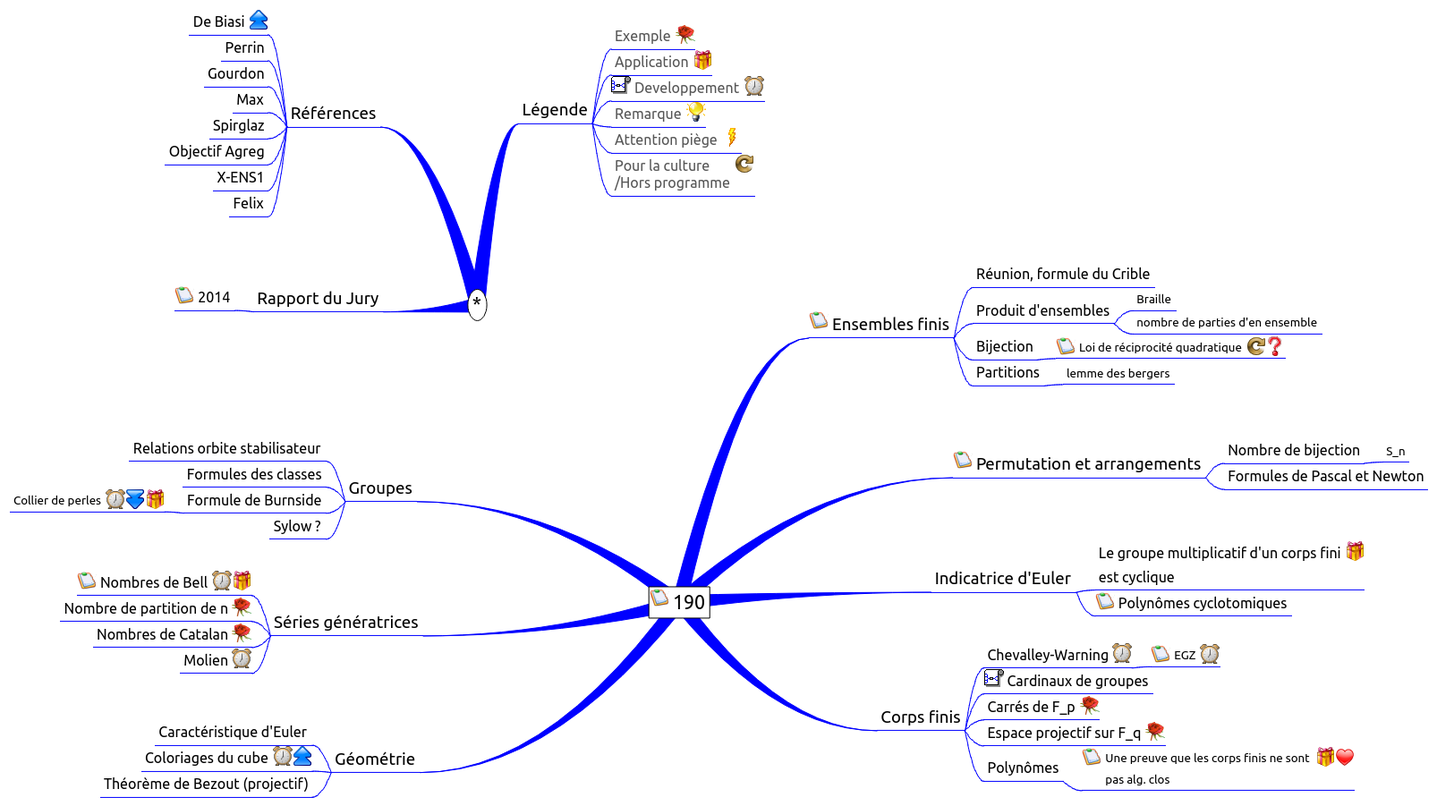
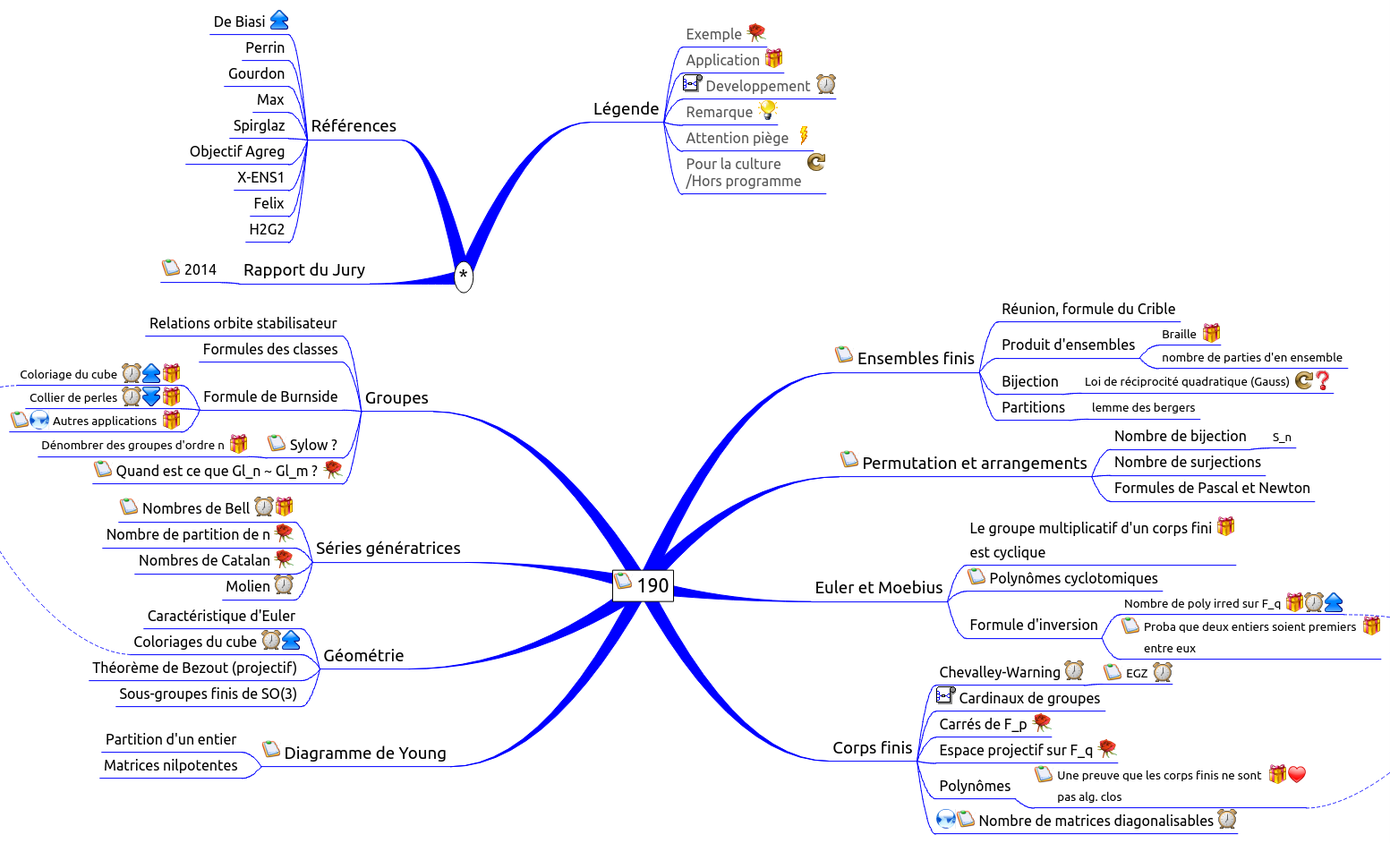
Mise à jour 190

diff --git a/Agreg/190/index.html b/Agreg/190/index.html
@@ -18,15 +18,23 @@ Contents:
 </div><div class="vym-toc-branch-2"><a href="#mc:0,bo:0,bo:0"> 1.1.  Caractéristique d'Euler</a></br>
 </div><div class="vym-toc-branch-2"><a href="#mc:0,bo:0,bo:1"> 1.2.  Coloriages du cube</a></br>
 </div><div class="vym-toc-branch-2"><a href="#mc:0,bo:0,bo:2"> 1.3.  Théorème de Bezout (projectif)</a></br>
-</div><div class="vym-toc-branch-1"><a href="#mc:0,bo:1"> 2.  Indicatrice d'Euler</a></br>
+</div><div class="vym-toc-branch-2"><a href="#mc:0,bo:0,bo:3"> 1.4.  Sous-groupes finis de SO(3)</a></br>
+</div><div class="vym-toc-branch-1"><a href="#mc:0,bo:1"> 2.  Euler et Moebius</a></br>
 </div><div class="vym-toc-branch-2"><a href="#mc:0,bo:1,bo:0"> 2.1.  Le groupe multiplicatif d'un corps fini est cyclique</a></br>
 </div><div class="vym-toc-branch-2"><a href="#mc:0,bo:1,bo:1"> 2.2.  Polynômes cyclotomiques</a></br>
+</div><div class="vym-toc-branch-2"><a href="#mc:0,bo:1,bo:2"> 2.3.  Formule d'inversion</a></br>
+</div><div class="vym-toc-branch-3"><a href="#mc:0,bo:1,bo:2,bo:0"> 2.3.1.  Nombre de poly irred sur F_q</a></br>
+</div><div class="vym-toc-branch-3"><a href="#mc:0,bo:1,bo:2,bo:1"> 2.3.2.  Proba que deux entiers soient premiers entre eux</a></br>
 </div><div class="vym-toc-branch-1"><a href="#mc:0,bo:2"> 3.  Groupes</a></br>
 </div><div class="vym-toc-branch-2"><a href="#mc:0,bo:2,bo:0"> 3.1.  Relations orbite stabilisateur</a></br>
 </div><div class="vym-toc-branch-2"><a href="#mc:0,bo:2,bo:1"> 3.2.  Formules des classes</a></br>
 </div><div class="vym-toc-branch-2"><a href="#mc:0,bo:2,bo:2"> 3.3.  Formule de Burnside</a></br>
-</div><div class="vym-toc-branch-3"><a href="#mc:0,bo:2,bo:2,bo:0"> 3.3.1.  Collier de perles</a></br>
+</div><div class="vym-toc-branch-3"><a href="#mc:0,bo:2,bo:2,bo:0"> 3.3.1.  Coloriage du cube</a></br>
+</div><div class="vym-toc-branch-3"><a href="#mc:0,bo:2,bo:2,bo:1"> 3.3.2.  Collier de perles</a></br>
+</div><div class="vym-toc-branch-3"><a href="#mc:0,bo:2,bo:2,bo:2"> 3.3.3.  Autres applications</a></br>
 </div><div class="vym-toc-branch-2"><a href="#mc:0,bo:2,bo:3"> 3.4.  Sylow ?</a></br>
+</div><div class="vym-toc-branch-3"><a href="#mc:0,bo:2,bo:3,bo:0"> 3.4.1.  Dénombrer des groupes d'ordre n</a></br>
+</div><div class="vym-toc-branch-2"><a href="#mc:0,bo:2,bo:4"> 3.5.  Quand est ce que Gl_n ~ Gl_m ?</a></br>
 </div><div class="vym-toc-branch-1"><a href="#mc:0,bo:3"> 4.  Corps finis</a></br>
 </div><div class="vym-toc-branch-2"><a href="#mc:0,bo:3,bo:0"> 4.1.  Chevalley-Warning</a></br>
 </div><div class="vym-toc-branch-3"><a href="#mc:0,bo:3,bo:0,bo:0"> 4.1.1.  EGZ</a></br>
@@ -35,13 +43,14 @@ Contents:
 </div><div class="vym-toc-branch-2"><a href="#mc:0,bo:3,bo:3"> 4.4.  Espace projectif sur F_q</a></br>
 </div><div class="vym-toc-branch-2"><a href="#mc:0,bo:3,bo:4"> 4.5.  Polynômes</a></br>
 </div><div class="vym-toc-branch-3"><a href="#mc:0,bo:3,bo:4,bo:0"> 4.5.1.  Une preuve que les corps finis ne sont pas alg. clos</a></br>
+</div><div class="vym-toc-branch-2"><a href="#mc:0,bo:3,bo:5"> 4.6.  Nombre de matrices diagonalisables</a></br>
 </div><div class="vym-toc-branch-1"><a href="#mc:0,bo:4"> 5.  Ensembles finis</a></br>
 </div><div class="vym-toc-branch-2"><a href="#mc:0,bo:4,bo:0"> 5.1.  Réunion, formule du Crible</a></br>
 </div><div class="vym-toc-branch-2"><a href="#mc:0,bo:4,bo:1"> 5.2.  Produit d'ensembles</a></br>
 </div><div class="vym-toc-branch-3"><a href="#mc:0,bo:4,bo:1,bo:0"> 5.2.1.  Braille</a></br>
 </div><div class="vym-toc-branch-3"><a href="#mc:0,bo:4,bo:1,bo:1"> 5.2.2.  nombre de parties d'en ensemble</a></br>
 </div><div class="vym-toc-branch-2"><a href="#mc:0,bo:4,bo:2"> 5.3.  Bijection</a></br>
-</div><div class="vym-toc-branch-3"><a href="#mc:0,bo:4,bo:2,bo:0"> 5.3.1.  Loi de réciprocité quadratique</a></br>
+</div><div class="vym-toc-branch-3"><a href="#mc:0,bo:4,bo:2,bo:0"> 5.3.1.  Loi de réciprocité quadratique (Gauss)</a></br>
 </div><div class="vym-toc-branch-2"><a href="#mc:0,bo:4,bo:3"> 5.4.  Partitions</a></br>
 </div><div class="vym-toc-branch-3"><a href="#mc:0,bo:4,bo:3,bo:0"> 5.4.1.  lemme des bergers</a></br>
 </div><div class="vym-toc-branch-1"><a href="#mc:0,bo:5"> 6.  Séries génératrices</a></br>
@@ -52,7 +61,11 @@ Contents:
 </div><div class="vym-toc-branch-1"><a href="#mc:0,bo:6"> 7.  Permutation et arrangements</a></br>
 </div><div class="vym-toc-branch-2"><a href="#mc:0,bo:6,bo:0"> 7.1.  Nombre de bijection</a></br>
 </div><div class="vym-toc-branch-3"><a href="#mc:0,bo:6,bo:0,bo:0"> 7.1.1.  S_n</a></br>
-</div><div class="vym-toc-branch-2"><a href="#mc:0,bo:6,bo:1"> 7.2.  Formules de Pascal et Newton</a></br>
+</div><div class="vym-toc-branch-2"><a href="#mc:0,bo:6,bo:1"> 7.2.  Nombre de surjections</a></br>
+</div><div class="vym-toc-branch-2"><a href="#mc:0,bo:6,bo:2"> 7.3.  Formules de Pascal et Newton</a></br>
+</div><div class="vym-toc-branch-1"><a href="#mc:0,bo:7"> 8.  Diagramme de Young</a></br>
+</div><div class="vym-toc-branch-2"><a href="#mc:0,bo:7,bo:0"> 8.1.  Partition d'un entier</a></br>
+</div><div class="vym-toc-branch-2"><a href="#mc:0,bo:7,bo:1"> 8.2.  Matrices nilpotentes</a></br>
 </div><div class="vym-toc-branch-0"><a href="#mc:1">  *</a></br>
 </div><div class="vym-toc-branch-1"><a href="#mc:1,bo:0"> 1.  Légende</a></br>
 </div><div class="vym-toc-branch-2"><a href="#mc:1,bo:0,bo:0"> 1.1.  Exemple</a></br>
@@ -71,6 +84,7 @@ Contents:
 </div><div class="vym-toc-branch-2"><a href="#mc:1,bo:1,bo:5"> 2.6.  Objectif Agreg</a></br>
 </div><div class="vym-toc-branch-2"><a href="#mc:1,bo:1,bo:6"> 2.7.  X-ENS1</a></br>
 </div><div class="vym-toc-branch-2"><a href="#mc:1,bo:1,bo:7"> 2.8.  Felix</a></br>
+</div><div class="vym-toc-branch-2"><a href="#mc:1,bo:1,bo:8"> 2.9.  H2G2</a></br>
 </div><div class="vym-toc-branch-1"><a href="#mc:1,bo:2"> 3.  Rapport du Jury</a></br>
 </div><div class="vym-toc-branch-2"><a href="#mc:1,bo:2,bo:0"> 3.1.  2014</a></br>
 </div></td></tr>
@@ -89,8 +103,9 @@ Méthodes combinatoires, problèmes de dénombrement.
       <li><span class='vym-branch-2' style='color:#000000' id='mc:0,bo:0,bo:0'>Caractéristique d'Euler</span>  </li>
       <li><span class='vym-branch-2' style='color:#000000' id='mc:0,bo:0,bo:1'>Coloriages du cube<img src="flags/flag-clock.png"><img src="flags/flag-2arrow-up.png"></span>  </li>
       <li><span class='vym-branch-2' style='color:#000000' id='mc:0,bo:0,bo:2'>Théorème de Bezout (projectif)</span>  </li>
+      <li><span class='vym-branch-2' style='color:#000000' id='mc:0,bo:0,bo:3'>Sous-groupes finis de SO(3)</span>  </li>
     </ul>
-  <h2><span class='vym-branch-1' style='color:#000000' id='mc:0,bo:1'>Indicatrice d'Euler</span></h2>
+  <h2><span class='vym-branch-1' style='color:#000000' id='mc:0,bo:1'>Euler et Moebius</span></h2>
     <ul class="vym-list-ul-2">
       <li><span class='vym-branch-2' style='color:#000000' id='mc:0,bo:1,bo:0'>Le groupe multiplicatif d'un corps fini est cyclique<img src="flags/flag-present.png"></span>  </li>
       <li><span class='vym-branch-2' style='color:#000000' id='mc:0,bo:1,bo:1'>Polynômes cyclotomiques</span>
@@ -99,6 +114,16 @@ Méthodes combinatoires, problèmes de dénombrement.
 Perrin<br/>OA<br/>
 </td></tr></table>
   </li>
+      <li><span class='vym-branch-2' style='color:#000000' id='mc:0,bo:1,bo:2'>Formule d'inversion</span>
+      <ul class="vym-list-ul-3">
+        <li><span class='vym-branch-3' style='color:#000000' id='mc:0,bo:1,bo:2,bo:0'>Nombre de poly irred sur F_q<img src="flags/flag-present.png"><img src="flags/flag-clock.png"><img src="flags/flag-2arrow-up.png"></span>  </li>
+        <li><span class='vym-branch-3' style='color:#000000' id='mc:0,bo:1,bo:2,bo:1'>Proba que deux entiers soient premiers entre eux<img src="flags/flag-present.png"></span>
+<table class="vym-note"><tr><td class="vym-note-flag">
+<td>
+[X-ENS1] 4.33 p.156<br/>
+</td></tr></table>
+  </li>
+      </ul>  </li>
     </ul>
   <h2><span class='vym-branch-1' style='color:#000000' id='mc:0,bo:2'>Groupes</span></h2>
     <ul class="vym-list-ul-2">
@@ -106,9 +131,30 @@ Perrin<br/>OA<br/>
       <li><span class='vym-branch-2' style='color:#000000' id='mc:0,bo:2,bo:1'>Formules des classes</span>  </li>
       <li><span class='vym-branch-2' style='color:#000000' id='mc:0,bo:2,bo:2'>Formule de Burnside</span>
       <ul class="vym-list-ul-3">
-        <li><span class='vym-branch-3' style='color:#000000' id='mc:0,bo:2,bo:2,bo:0'>Collier de perles<img src="flags/flag-clock.png"><img src="flags/flag-2arrow-down.png"><img src="flags/flag-present.png"></span>  </li>
+        <li><span class='vym-branch-3' style='color:#000000' id='mc:0,bo:2,bo:2,bo:0'>Coloriage du cube<img src="flags/flag-clock.png"><img src="flags/flag-2arrow-up.png"><img src="flags/flag-present.png"></span>  </li>
+        <li><span class='vym-branch-3' style='color:#000000' id='mc:0,bo:2,bo:2,bo:1'>Collier de perles<img src="flags/flag-clock.png"><img src="flags/flag-2arrow-down.png"><img src="flags/flag-present.png"></span>  </li>
+        <li><span class='vym-branch-3' style='color:#000000' id='mc:0,bo:2,bo:2,bo:2'><a href="http://agreg-maths.univ-rennes1.fr/documentation/docs/denompoly.pdf"><img src="flags/flag-url-16x16.png">Autres applications<img src="flags/flag-present.png"></a></span>
+<table class="vym-note"><tr><td class="vym-note-flag">
+<td>
+Cf texte de Michel Coste<br/><br/>http://agreg-maths.univ-rennes1.fr/documentation/docs/denompoly.pdf
+</td></tr></table>
+  </li>
       </ul>  </li>
-      <li><span class='vym-branch-2' style='color:#000000' id='mc:0,bo:2,bo:3'>Sylow ?</span>  </li>
+      <li><span class='vym-branch-2' style='color:#000000' id='mc:0,bo:2,bo:3'>Sylow ?</span>
+<table class="vym-note"><tr><td class="vym-note-flag">
+<td>
+Preuve par Gl_n(F_p)<br/>cf Perrin ou H2G2
+</td></tr></table>
+
+      <ul class="vym-list-ul-3">
+        <li><span class='vym-branch-3' style='color:#000000' id='mc:0,bo:2,bo:3,bo:0'>Dénombrer des groupes d'ordre n<img src="flags/flag-present.png"></span>  </li>
+      </ul>  </li>
+      <li><span class='vym-branch-2' style='color:#000000' id='mc:0,bo:2,bo:4'>Quand est ce que Gl_n ~ Gl_m ?<img src="flags/flag-rose.png"></span>
+<table class="vym-note"><tr><td class="vym-note-flag">
+<td>
+$Gl_n(k)$ est isomorphe à $Gl_m(k)$ ssi $n=m$<br/><br/>[Peut être un X-ENS Alg 2 ou 3]<br/><br/>On considère le sous-groupe $\{ X \in Gl_n(k) \vert X^2 =1 \}$.<br/>son image par l'isomorphisme est le groupe<br/>$\{ X \in Gl_m(k) \vert X^2 =1 \}$.<br/><br/>On va dénombrer les classes de conjugaison des éléments de ces groupes.<br/>Or chacune de ces classes a un représentant diagonal. (Tous les éléments de ces groupes sont diagonalisables)<br/>On montre qu'il y en a exactement $2^n$ distincts (resp. $2^m$).<br/>Or ces nombres doivent être égaux donc $n=m$
+</td></tr></table>
+  </li>
     </ul>
   <h2><span class='vym-branch-1' style='color:#000000' id='mc:0,bo:3'>Corps finis</span></h2>
     <ul class="vym-list-ul-2">
@@ -138,6 +184,12 @@ On dénombre les polynômes unitaires de degré d<br/>On dénombres les produits
 </td></tr></table>
   </li>
       </ul>  </li>
+      <li><span class='vym-branch-2' style='color:#000000' id='mc:0,bo:3,bo:5'><a href="http://perso.eleves.bretagne.ens-cachan.fr/~srostam/files/Agreg/D%C3%A9veloppements/Nombre_matrices_diagonalisables.pdf"><img src="flags/flag-url-16x16.png">Nombre de matrices diagonalisables<img src="flags/flag-clock.png"></a></span>
+<table class="vym-note"><tr><td class="vym-note-flag">
+<td>
+[Oraux X-ENS, algèbre, tome 1, exercice 1.10] pour l'idée
+</td></tr></table>
+  </li>
     </ul>
   <h2><span class='vym-branch-1' style='color:#000000' id='mc:0,bo:4'>Ensembles finis</span>
 <table class="vym-note"><tr><td class="vym-note-flag">
@@ -149,17 +201,12 @@ Debiasi
       <li><span class='vym-branch-2' style='color:#000000' id='mc:0,bo:4,bo:0'>Réunion, formule du Crible</span>  </li>
       <li><span class='vym-branch-2' style='color:#000000' id='mc:0,bo:4,bo:1'>Produit d'ensembles</span>
       <ul class="vym-list-ul-3">
-        <li><span class='vym-branch-3' style='color:#000000' id='mc:0,bo:4,bo:1,bo:0'>Braille</span>  </li>
+        <li><span class='vym-branch-3' style='color:#000000' id='mc:0,bo:4,bo:1,bo:0'>Braille<img src="flags/flag-present.png"></span>  </li>
         <li><span class='vym-branch-3' style='color:#000000' id='mc:0,bo:4,bo:1,bo:1'>nombre de parties d'en ensemble</span>  </li>
       </ul>  </li>
       <li><span class='vym-branch-2' style='color:#000000' id='mc:0,bo:4,bo:2'>Bijection</span>
       <ul class="vym-list-ul-3">
-        <li><span class='vym-branch-3' style='color:#000000' id='mc:0,bo:4,bo:2,bo:0'>Loi de réciprocité quadratique<img src="flags/flag-wip.png"><img src="flags/flag-questionmark.png"></span>
-<table class="vym-note"><tr><td class="vym-note-flag">
-<td>
-(Preuve de Gauss)
-</td></tr></table>
-  </li>
+        <li><span class='vym-branch-3' style='color:#000000' id='mc:0,bo:4,bo:2,bo:0'>Loi de réciprocité quadratique (Gauss)<img src="flags/flag-wip.png"><img src="flags/flag-questionmark.png"></span>  </li>
       </ul>  </li>
       <li><span class='vym-branch-2' style='color:#000000' id='mc:0,bo:4,bo:3'>Partitions</span>
       <ul class="vym-list-ul-3">
@@ -189,7 +236,18 @@ Debiasi
       <ul class="vym-list-ul-3">
         <li><span class='vym-branch-3' style='color:#000000' id='mc:0,bo:6,bo:0,bo:0'>S_n</span>  </li>
       </ul>  </li>
-      <li><span class='vym-branch-2' style='color:#000000' id='mc:0,bo:6,bo:1'>Formules de Pascal et Newton</span>  </li>
+      <li><span class='vym-branch-2' style='color:#000000' id='mc:0,bo:6,bo:1'>Nombre de surjections</span>  </li>
+      <li><span class='vym-branch-2' style='color:#000000' id='mc:0,bo:6,bo:2'>Formules de Pascal et Newton</span>  </li>
+    </ul>
+  <h2><span class='vym-branch-1' style='color:#000000' id='mc:0,bo:7'>Diagramme de Young</span>
+<table class="vym-note"><tr><td class="vym-note-flag">
+<td>
+[H2G2 p. 113]
+</td></tr></table>
+</h2>
+    <ul class="vym-list-ul-2">
+      <li><span class='vym-branch-2' style='color:#000000' id='mc:0,bo:7,bo:0'>Partition d'un entier</span>  </li>
+      <li><span class='vym-branch-2' style='color:#000000' id='mc:0,bo:7,bo:1'>Matrices nilpotentes</span>  </li>
     </ul>
   
 <h1><span class='vym-branch-0' style='color:#000000' id='mc:1'>*</span></h1>
@@ -221,6 +279,7 @@ Debiasi
       <li><span class='vym-branch-2' style='color:#000000' id='mc:1,bo:1,bo:5'>Objectif Agreg</span>  </li>
       <li><span class='vym-branch-2' style='color:#000000' id='mc:1,bo:1,bo:6'>X-ENS1</span>  </li>
       <li><span class='vym-branch-2' style='color:#000000' id='mc:1,bo:1,bo:7'>Felix</span>  </li>
+      <li><span class='vym-branch-2' style='color:#000000' id='mc:1,bo:1,bo:8'>H2G2</span>  </li>
     </ul>
   <h2><span class='vym-branch-1' style='color:#000000' id='mc:1,bo:2'>Rapport du Jury</span></h2>
     <ul class="vym-list-ul-2">
@@ -234,71 +293,87 @@ Debiasi
   
 
 <map name='imagemap'>
-  <area shape='rect' coords='748.185,656.968,792.232,689.968' href='#mc:0'>
-  <area shape='rect' coords='370.028,832.634,469.387,862.634' href='#mc:0,bo:0'>
-  <area shape='rect' coords='173.403,805.134,349.028,832.134' href='#mc:0,bo:0,bo:0'>
-  <area shape='rect' coords='158.091,834.134,305.028,861.134' href='#mc:0,bo:0,bo:1'>
-  <area shape='rect' coords='112.044,863.134,349.028,890.134' href='#mc:0,bo:0,bo:2'>
-  <area shape='rect' coords='1040.76,631.138,1202.99,661.138' href='#mc:0,bo:1'>
-  <area shape='rect' coords='1223.99,604.638,1502.76,658.638' href='#mc:0,bo:1,bo:0'>
-  <area shape='rect' coords='1245.99,660.638,1443.51,687.638' href='#mc:0,bo:1,bo:1'>
-  <area shape='rect' coords='385.641,529.762,465.844,559.762' href='#mc:0,bo:2'>
-  <area shape='rect' coords='144.984,487.762,364.641,514.762' href='#mc:0,bo:2,bo:0'>
-  <area shape='rect' coords='204.781,516.762,364.641,543.762' href='#mc:0,bo:2,bo:1'>
-  <area shape='rect' coords='205.156,545.762,364.641,572.762' href='#mc:0,bo:2,bo:2'>
-  <area shape='rect' coords='11,547.262,118.156,571.262' href='#mc:0,bo:2,bo:2,bo:0'>
-  <area shape='rect' coords='301.844,574.762,364.641,601.762' href='#mc:0,bo:2,bo:3'>
-  <area shape='rect' coords='980.46,785.859,1078.58,815.859' href='#mc:0,bo:3'>
-  <area shape='rect' coords='1099.58,718.859,1243.3,745.859' href='#mc:0,bo:3,bo:0'>
-  <area shape='rect' coords='1308.3,720.359,1341.49,744.359' href='#mc:0,bo:3,bo:0,bo:0'>
-  <area shape='rect' coords='1121.58,747.859,1288.57,774.859' href='#mc:0,bo:3,bo:1'>
-  <area shape='rect' coords='1099.58,776.859,1206.83,803.859' href='#mc:0,bo:3,bo:2'>
-  <area shape='rect' coords='1099.58,805.859,1280.46,832.859' href='#mc:0,bo:3,bo:3'>
-  <area shape='rect' coords='1099.58,845.359,1188.48,872.359' href='#mc:0,bo:3,bo:4'>
-  <area shape='rect' coords='1231.48,834.859,1469.69,882.859' href='#mc:0,bo:3,bo:4,bo:0'>
-  <area shape='rect' coords='926.168,346.922,1066.22,376.922' href='#mc:0,bo:4'>
-  <area shape='rect' coords='1087.22,293.422,1290.65,320.422' href='#mc:0,bo:4,bo:0'>
-  <area shape='rect' coords='1087.22,333.922,1245.34,360.922' href='#mc:0,bo:4,bo:1'>
-  <area shape='rect' coords='1266.34,322.422,1314.04,346.422' href='#mc:0,bo:4,bo:1,bo:0'>
-  <area shape='rect' coords='1266.34,348.422,1477.29,372.422' href='#mc:0,bo:4,bo:1,bo:1'>
-  <area shape='rect' coords='1087.22,374.422,1159.04,401.422' href='#mc:0,bo:4,bo:2'>
-  <area shape='rect' coords='1202.04,375.922,1392.98,399.922' href='#mc:0,bo:4,bo:2,bo:0'>
-  <area shape='rect' coords='1087.22,403.422,1167.12,430.422' href='#mc:0,bo:4,bo:3'>
-  <area shape='rect' coords='1188.12,404.922,1312.57,428.922' href='#mc:0,bo:4,bo:3,bo:0'>
-  <area shape='rect' coords='302.245,679.878,472.73,709.878' href='#mc:0,bo:5'>
-  <area shape='rect' coords='108.073,637.878,237.245,664.878' href='#mc:0,bo:5,bo:0'>
-  <area shape='rect' coords='67.7453,666.878,259.245,693.878' href='#mc:0,bo:5,bo:1'>
-  <area shape='rect' coords='104.12,695.878,259.245,722.878' href='#mc:0,bo:5,bo:2'>
-  <area shape='rect' coords='201.37,724.878,259.245,751.878' href='#mc:0,bo:5,bo:3'>
-  <area shape='rect' coords='1087.03,503.1,1347.33,533.1' href='#mc:0,bo:6'>
-  <area shape='rect' coords='1368.33,490.1,1524.41,517.1' href='#mc:0,bo:6,bo:0'>
-  <area shape='rect' coords='1545.41,491.6,1574.68,515.6' href='#mc:0,bo:6,bo:0,bo:0'>
-  <area shape='rect' coords='1368.33,519.1,1595.71,546.1' href='#mc:0,bo:6,bo:1'>
-  <area shape='rect' coords='523.861,324.451,543.095,357.451' href='#mc:1'>
-  <area shape='rect' coords='579.566,107.459,662.035,137.459' href='#mc:1,bo:0'>
-  <area shape='rect' coords='683.035,26.9587,754.754,53.9587' href='#mc:1,bo:0,bo:0'>
-  <area shape='rect' coords='683.035,55.9587,773.738,82.9587' href='#mc:1,bo:0,bo:1'>
-  <area shape='rect' coords='705.035,84.9587,832.223,111.959' href='#mc:1,bo:0,bo:2'>
-  <area shape='rect' coords='683.035,113.959,766.848,140.959' href='#mc:1,bo:0,bo:3'>
-  <area shape='rect' coords='683.035,142.959,806.926,169.959' href='#mc:1,bo:0,bo:4'>
-  <area shape='rect' coords='683.035,171.959,821.113,217.959' href='#mc:1,bo:0,bo:5'>
-  <area shape='rect' coords='320.76,111,425.338,141' href='#mc:1,bo:1'>
-  <area shape='rect' coords='211.885,11,277.76,38' href='#mc:1,bo:1,bo:0'>
-  <area shape='rect' coords='247.541,40,299.76,67' href='#mc:1,bo:1,bo:1'>
-  <area shape='rect' coords='228.197,69,299.76,96' href='#mc:1,bo:1,bo:2'>
-  <area shape='rect' coords='260.322,98,299.76,125' href='#mc:1,bo:1,bo:3'>
-  <area shape='rect' coords='234.151,127,299.76,154' href='#mc:1,bo:1,bo:4'>
-  <area shape='rect' coords='184.979,156,299.76,183' href='#mc:1,bo:1,bo:5'>
-  <area shape='rect' coords='238.604,185,299.76,212' href='#mc:1,bo:1,bo:6'>
-  <area shape='rect' coords='256.666,214,299.76,241' href='#mc:1,bo:1,bo:7'>
-  <area shape='rect' coords='283.395,317.646,428.363,347.646' href='#mc:1,bo:2'>
-  <area shape='rect' coords='217.332,319.146,262.395,346.146' href='#mc:1,bo:2,bo:0'>
+  <area shape='rect' coords='707.487,638.153,751.534,671.153' href='#mc:0'>
+  <area shape='rect' coords='357.385,716.581,456.745,746.581' href='#mc:0,bo:0'>
+  <area shape='rect' coords='160.76,674.581,336.385,701.581' href='#mc:0,bo:0,bo:0'>
+  <area shape='rect' coords='145.448,703.581,292.385,730.581' href='#mc:0,bo:0,bo:1'>
+  <area shape='rect' coords='99.4008,732.581,336.385,759.581' href='#mc:0,bo:0,bo:2'>
+  <area shape='rect' coords='129.526,761.581,336.385,788.581' href='#mc:0,bo:0,bo:3'>
+  <area shape='rect' coords='906.523,641.32,1058.6,671.32' href='#mc:0,bo:1'>
+  <area shape='rect' coords='1079.6,576.82,1358.37,630.82' href='#mc:0,bo:1,bo:0'>
+  <area shape='rect' coords='1101.6,632.82,1299.12,659.82' href='#mc:0,bo:1,bo:1'>
+  <area shape='rect' coords='1079.6,685.32,1231.12,712.32' href='#mc:0,bo:1,bo:2'>
+  <area shape='rect' coords='1252.12,661.82,1435.35,685.82' href='#mc:0,bo:1,bo:2,bo:0'>
+  <area shape='rect' coords='1274.12,687.82,1520.68,735.82' href='#mc:0,bo:1,bo:2,bo:1'>
+  <area shape='rect' coords='403.797,428.833,484,458.833' href='#mc:0,bo:2'>
+  <area shape='rect' coords='163.141,347.833,382.797,374.833' href='#mc:0,bo:2,bo:0'>
+  <area shape='rect' coords='222.938,376.833,382.797,403.833' href='#mc:0,bo:2,bo:1'>
+  <area shape='rect' coords='223.312,430.333,382.797,457.333' href='#mc:0,bo:2,bo:2'>
+  <area shape='rect' coords='18.375,405.833,136.312,429.833' href='#mc:0,bo:2,bo:2,bo:0'>
+  <area shape='rect' coords='29.1562,431.833,136.312,455.833' href='#mc:0,bo:2,bo:2,bo:1'>
+  <area shape='rect' coords='33,457.833,55,479.833' href='http://agreg-maths.univ-rennes1.fr/documentation/docs/denompoly.pdf'>
+  <area shape='rect' coords='55,457.833,180.312,481.833' href='#mc:0,bo:2,bo:2,bo:2'>
+  <area shape='rect' coords='320,483.833,382.797,510.833' href='#mc:0,bo:2,bo:3'>
+  <area shape='rect' coords='42.3281,485.333,255,509.333' href='#mc:0,bo:2,bo:3,bo:0'>
+  <area shape='rect' coords='125.703,512.833,360.797,539.833' href='#mc:0,bo:2,bo:4'>
+  <area shape='rect' coords='926.481,819.537,1024.61,849.537' href='#mc:0,bo:3'>
+  <area shape='rect' coords='1045.61,738.037,1189.33,765.037' href='#mc:0,bo:3,bo:0'>
+  <area shape='rect' coords='1254.33,739.537,1287.51,763.537' href='#mc:0,bo:3,bo:0,bo:0'>
+  <area shape='rect' coords='1067.61,767.037,1234.59,794.037' href='#mc:0,bo:3,bo:1'>
+  <area shape='rect' coords='1045.61,796.037,1152.86,823.037' href='#mc:0,bo:3,bo:2'>
+  <area shape='rect' coords='1045.61,825.037,1226.48,852.037' href='#mc:0,bo:3,bo:3'>
+  <area shape='rect' coords='1045.61,864.537,1134.5,891.537' href='#mc:0,bo:3,bo:4'>
+  <area shape='rect' coords='1177.5,854.037,1415.72,902.037' href='#mc:0,bo:3,bo:4,bo:0'>
+  <area shape='rect' coords='1045.61,904.037,1067.61,926.037' href='http://perso.eleves.bretagne.ens-cachan.fr/~srostam/files/Agreg/D%C3%A9veloppements/Nombre_matrices_diagonalisables.pdf'>
+  <area shape='rect' coords='1089.61,904.037,1360.37,931.037' href='#mc:0,bo:3,bo:5'>
+  <area shape='rect' coords='954.213,385.393,1094.26,415.393' href='#mc:0,bo:4'>
+  <area shape='rect' coords='1115.26,331.893,1318.7,358.893' href='#mc:0,bo:4,bo:0'>
+  <area shape='rect' coords='1115.26,372.393,1273.39,399.393' href='#mc:0,bo:4,bo:1'>
+  <area shape='rect' coords='1294.39,360.893,1342.09,384.893' href='#mc:0,bo:4,bo:1,bo:0'>
+  <area shape='rect' coords='1294.39,386.893,1505.34,410.893' href='#mc:0,bo:4,bo:1,bo:1'>
+  <area shape='rect' coords='1115.26,412.893,1187.09,439.893' href='#mc:0,bo:4,bo:2'>
+  <area shape='rect' coords='1208.09,414.393,1446.15,438.393' href='#mc:0,bo:4,bo:2,bo:0'>
+  <area shape='rect' coords='1115.26,441.893,1195.17,468.893' href='#mc:0,bo:4,bo:3'>
+  <area shape='rect' coords='1216.17,443.393,1340.62,467.393' href='#mc:0,bo:4,bo:3,bo:0'>
+  <area shape='rect' coords='349.347,597.487,519.832,627.487' href='#mc:0,bo:5'>
+  <area shape='rect' coords='155.176,555.487,284.347,582.487' href='#mc:0,bo:5,bo:0'>
+  <area shape='rect' coords='114.847,584.487,306.347,611.487' href='#mc:0,bo:5,bo:1'>
+  <area shape='rect' coords='151.222,613.487,306.347,640.487' href='#mc:0,bo:5,bo:2'>
+  <area shape='rect' coords='248.472,642.487,306.347,669.487' href='#mc:0,bo:5,bo:3'>
+  <area shape='rect' coords='959.729,501.781,1220.03,531.781' href='#mc:0,bo:6'>
+  <area shape='rect' coords='1241.03,474.281,1397.1,501.281' href='#mc:0,bo:6,bo:0'>
+  <area shape='rect' coords='1418.1,475.781,1447.37,499.781' href='#mc:0,bo:6,bo:0,bo:0'>
+  <area shape='rect' coords='1241.03,503.281,1414.23,530.281' href='#mc:0,bo:6,bo:1'>
+  <area shape='rect' coords='1241.03,532.281,1468.4,559.281' href='#mc:0,bo:6,bo:2'>
+  <area shape='rect' coords='313.628,825.74,503.081,855.74' href='#mc:0,bo:7'>
+  <area shape='rect' coords='114.175,812.74,270.628,839.74' href='#mc:0,bo:7,bo:0'>
+  <area shape='rect' coords='112.081,841.74,270.628,868.74' href='#mc:0,bo:7,bo:1'>
+  <area shape='rect' coords='508.535,293.096,527.769,326.096' href='#mc:1'>
+  <area shape='rect' coords='659.226,105.581,741.695,135.581' href='#mc:1,bo:0'>
+  <area shape='rect' coords='762.695,25.0813,834.413,52.0813' href='#mc:1,bo:0,bo:0'>
+  <area shape='rect' coords='762.695,54.0813,853.398,81.0813' href='#mc:1,bo:0,bo:1'>
+  <area shape='rect' coords='784.695,83.0813,911.882,110.081' href='#mc:1,bo:0,bo:2'>
+  <area shape='rect' coords='762.695,112.081,846.507,139.081' href='#mc:1,bo:0,bo:3'>
+  <area shape='rect' coords='762.695,141.081,886.585,168.081' href='#mc:1,bo:0,bo:4'>
+  <area shape='rect' coords='762.695,170.081,900.773,216.081' href='#mc:1,bo:0,bo:5'>
+  <area shape='rect' coords='343.647,125.5,448.225,155.5' href='#mc:1,bo:1'>
+  <area shape='rect' coords='234.772,11,300.647,38' href='#mc:1,bo:1,bo:0'>
+  <area shape='rect' coords='270.428,40,322.647,67' href='#mc:1,bo:1,bo:1'>
+  <area shape='rect' coords='251.084,69,322.647,96' href='#mc:1,bo:1,bo:2'>
+  <area shape='rect' coords='283.209,98,322.647,125' href='#mc:1,bo:1,bo:3'>
+  <area shape='rect' coords='257.037,127,322.647,154' href='#mc:1,bo:1,bo:4'>
+  <area shape='rect' coords='207.865,156,322.647,183' href='#mc:1,bo:1,bo:5'>
+  <area shape='rect' coords='261.49,185,322.647,212' href='#mc:1,bo:1,bo:6'>
+  <area shape='rect' coords='279.553,214,322.647,241' href='#mc:1,bo:1,bo:7'>
+  <area shape='rect' coords='274.6,243,322.647,270' href='#mc:1,bo:1,bo:8'>
+  <area shape='rect' coords='268.069,286.291,413.038,316.291' href='#mc:1,bo:2'>
+  <area shape='rect' coords='202.007,287.791,247.069,314.791' href='#mc:1,bo:2,bo:0'>
 </map>
 <hr/>
 <table class="vym-footer">   
       <tr> 
         <td class="vym-footerL">/home/basile/Git/bpillet.github.io/Agreg/190/Denombrement.html</td> 
-        <td class="vym-footerC">2015-05-05</td> 
+        <td class="vym-footerC">2015-05-11</td> 
         <td class="vym-footerR"> <a href='http://www.insilmaril.de/vym'>vym 2.3.20</a></td> 
       </tr> 
      </table>
